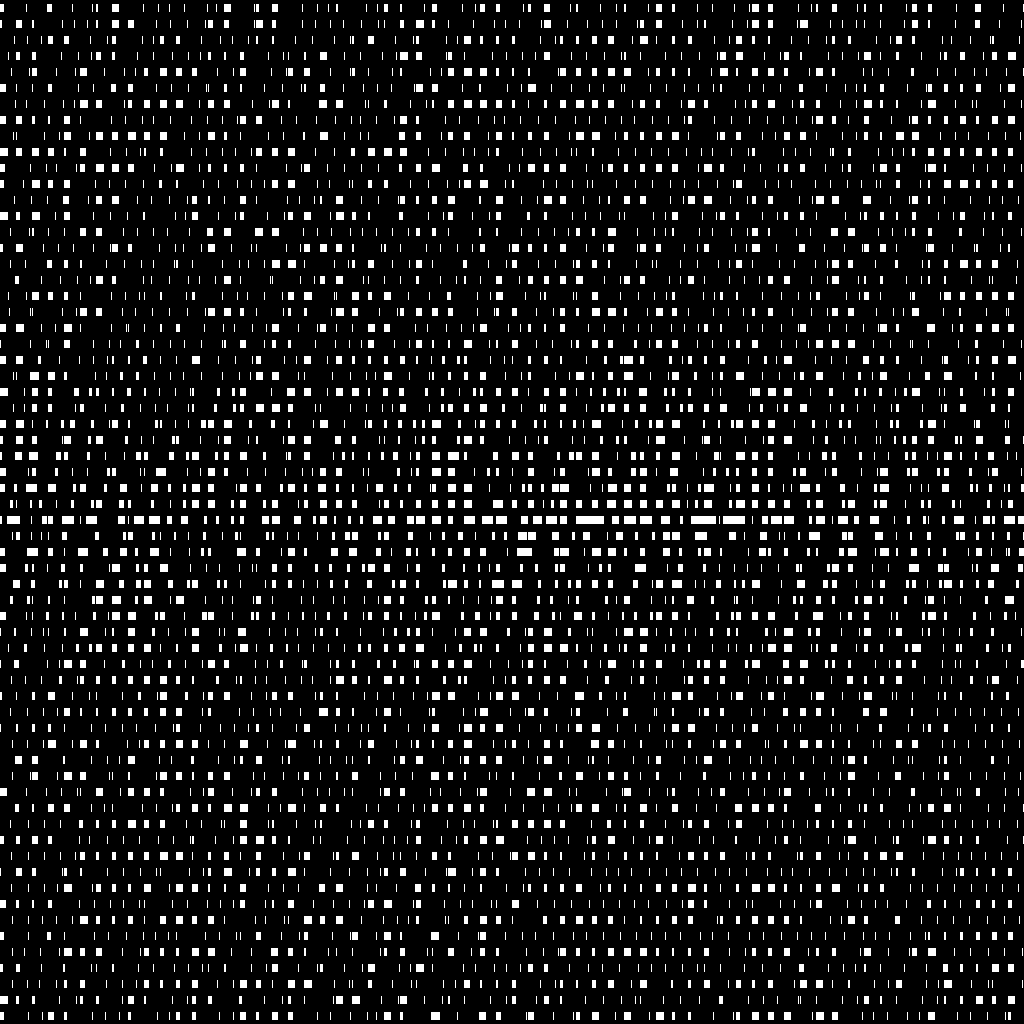
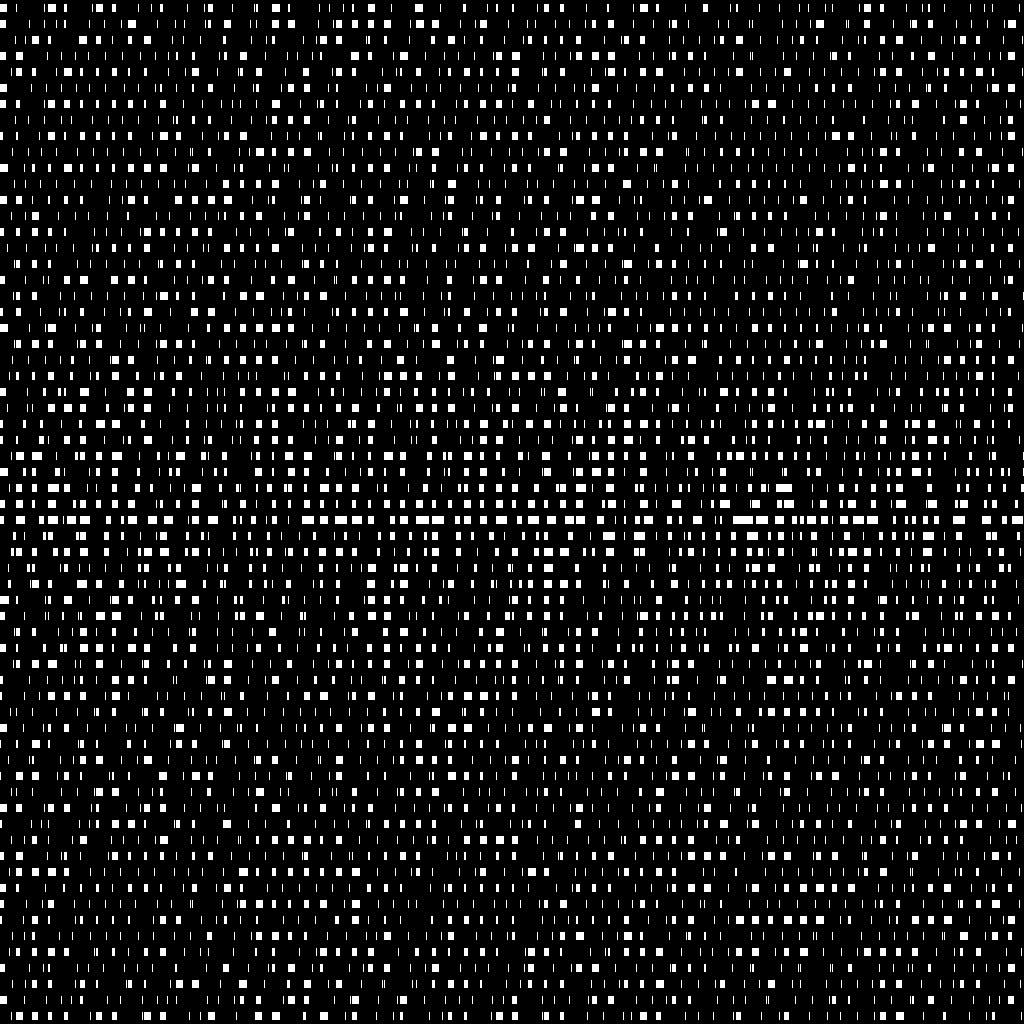
complete stimulate hologram and fix bugs

diff --git a/Computational Interference Hologram/main.py b/Computational Interference Hologram/main.py
@@ -1,4 +1,3 @@
-#这个还没写好，别看（
 import cupy as cp
 import numpy as np
 import matplotlib.pyplot as plt
@@ -6,14 +5,20 @@ from PIL import Image
 
 # 参数设置
 image_size = 256  # 图像大小
+wave_length = 0.632e-6  # 波长，单位m
+pix = 0.00465 # CCD像素宽度
+reference_angle = 0.5 # 参考光角度的sin值
+reconstruct_angle = 0  # 重建角度的sin值
+zoom = 200 # 缩放系数（调整此值以提高衬比度）
 
-# 加载自定义图像
-image_path = './pku.jpg'
+
+# 加载图像
+image_path = 'pku.jpg'
 image = Image.open(image_path).convert('L')
 image = image.resize((image_size, image_size))
 image_array = np.array(image)
 
-# 显示加载的图像
+# 展示初始图像
 plt.imshow(image_array, cmap='gray')
 plt.title('Custom Image')
 plt.colorbar()
@@ -23,28 +28,43 @@ plt.show()
 random_phase = cp.random.rand(image_size, image_size)
 object_field = cp.array(image_array) * cp.exp(1j * 2 * cp.pi * random_phase)
 
-# 计算傅里叶变换以获得全息图
+# 计算振幅和相位
 hologram = cp.fft.fftshift(cp.fft.fft2(cp.fft.fftshift(object_field)))
 hologram_amplitude = cp.abs(hologram)
+hologram_amplitude = hologram_amplitude / cp.max(hologram_amplitude)
 hologram_phase = cp.angle(hologram)
 
-# 保存全息图的振幅和相位
-hologram_amplitude_cpu = cp.asnumpy(hologram_amplitude)
-hologram_phase_cpu = cp.asnumpy(hologram_phase)
+# 编码全息图
+frequency_x =  reference_angle / wave_length
+total_size = image_size * pix
+x_range = cp.linspace(-total_size/2, total_size/2, image_size)
+phase_factor = cp.cos(2 * cp.pi * frequency_x * x_range - hologram_phase)
+encoded_hologram = (1 + hologram_amplitude * phase_factor) / 2
 
-# 显示全息图振幅
-plt.imshow(hologram_amplitude_cpu, cmap='gray')
-plt.title('Hologram Amplitude')
+# 将编码后的全息图转换为CPU上的numpy数组以便显示
+encoded_hologram_cpu = cp.asnumpy(encoded_hologram)
+
+#展示编码后的全息图
+plt.imshow(encoded_hologram_cpu, cmap='gray')
+plt.title('Encoded Hologram')
 plt.colorbar()
 plt.show()
 
-# 保存全息图振幅为图像
-hologram_amplitude_image = Image.fromarray((hologram_amplitude_cpu / np.max(hologram_amplitude_cpu) * 255).astype(np.uint8))
-hologram_amplitude_image.save('./hologram_amplitude.png')
+# 保存编码后的全息图
+encoded_hologram_save = Image.fromarray((encoded_hologram_cpu * 255).astype(np.uint8))
+encoded_hologram_save.save('encoded_hologram.png')
 
-# 使用逆傅里叶变换重建图像
-reconstructed_field = cp.fft.ifftshift(cp.fft.ifft2(cp.fft.ifftshift(hologram)))
+# 平行参考光重建图像
+reconstruct_frequency = reconstruct_angle / wave_length
+reference_field = cp.exp(1j * 2 * cp.pi * reconstruct_frequency * x_range)
+reconstructed_field = cp.fft.fftshift(cp.fft.fft2(encoded_hologram * reference_field))
 reconstructed_image = cp.abs(reconstructed_field)
+
+# 处理重建图像以提高衬比度
+re_max = cp.max(reconstructed_image)
+re_min = cp.min(reconstructed_image)
+cp.clip(reconstructed_image, re_min, re_max/zoom, out=reconstructed_image)
+reconstructed_image = reconstructed_image / cp.max(reconstructed_image) * 255
 
 # 将重建图像转换为CPU上的numpy数组以便显示
 reconstructed_image_cpu = cp.asnumpy(reconstructed_image)
@@ -57,4 +77,4 @@ plt.show()
 
 # 保存重建的图像
 reconstructed_image_save = Image.fromarray((reconstructed_image_cpu / np.max(reconstructed_image_cpu) * 255).astype(np.uint8))
-reconstructed_image_save.save('./reconstructed_image.png')
+reconstructed_image_save.save('reconstructed_image.png')

diff --git a/Circuitous Phase Type Hologram/main.py b/Circuitous Phase Type Hologram/main.py
@@ -6,6 +6,9 @@ from PIL import Image
 # 参数设置
 image_size = 64  # 图像大小
 unit_size = 16  # 光栅单元大小
+wave_length = 0.632e-6  # 波长，单位m
+pix = 0.00465 # CCD像素宽度
+angle = 0 # 重建角度的sin值
 zoom = 10 # 缩放系数（调整此值以提高衬比度）
 
 # 加载图像
@@ -14,7 +17,7 @@ image = Image.open(image_path).convert('L')
 image = image.resize((image_size, image_size))
 image_array = np.array(image)
 
-# 展示处理后的图像
+# 展示初始图像
 plt.imshow(image_array, cmap='gray')
 plt.title('Original Image')
 plt.colorbar()
@@ -74,22 +77,27 @@ plt.show()
 
 # 保存编码后的全息图为图像
 encoded_hologram_image = Image.fromarray((encoded_hologram * 255).astype(np.uint8))
-encoded_hologram_image.save('./encoded_hologram.png')
+encoded_hologram_image.save('encoded_hologram.png')
 
-# 反傅里叶变换重建原始图像
-reconstructed_field = cp.fft.ifftshift(cp.fft.ifft2(grating))
-reconstructed_image = cp.abs(reconstructed_field) * 100
+# 平行参考光重建图像
+frequency_x = angle / wave_length
+total_size = N * pix
+x_range = cp.linspace(-total_size / 2, total_size / 2, N)
+reference_field = cp.exp(1j * 2 * cp.pi * frequency_x * x_range)
+reconstructed_field = cp.fft.fftshift(cp.fft.fft2(grating * reference_field))
+reconstructed_image = cp.abs(reconstructed_field)
 
-# 裁剪重建图像以去除边缘噪声
-reconstructed_image = reconstructed_image[N*3/8 : N*5/8, N*3/8 : N*5/8]
+# 裁剪图像
+cropped_image = reconstructed_image[N*3/8 : N*5/8, N*3/8 : N*5/8]
+
 # 处理重建图像以提高衬比度
-re_max = cp.max(reconstructed_image)
-re_min = cp.min(reconstructed_image)
-cp.clip(reconstructed_image, re_min, re_max/zoom, out=reconstructed_image)
-reconstructed_image = reconstructed_image / cp.max(reconstructed_image) * 255
+re_max = cp.max(cropped_image)
+re_min = cp.min(cropped_image)
+cp.clip(cropped_image, re_min, re_max / zoom, out=cropped_image)
+cropped_image = cropped_image / cp.max(cropped_image) * 255
 
 # 将重建图像转换为CPU上的numpy数组以便显示
-reconstructed_image_cpu = cp.asnumpy(reconstructed_image)
+reconstructed_image_cpu = cp.asnumpy(cropped_image)
 
 # 显示重建图像
 plt.imshow(reconstructed_image_cpu, cmap='gray')
@@ -98,5 +106,5 @@ plt.colorbar()
 plt.show()
 
 # 保存重建的图像
-reconstructed_image_save = Image.fromarray((reconstructed_image_cpu).astype(np.uint8))
-reconstructed_image_save.save('./reconstructed_image.png')
+reconstructed_image_save = Image.fromarray(reconstructed_image_cpu.astype(np.uint8))
+reconstructed_image_save.save('reconstructed_image.png')
